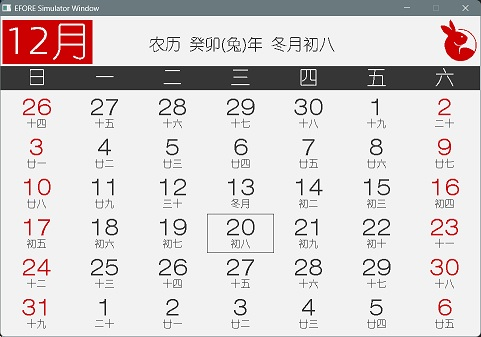
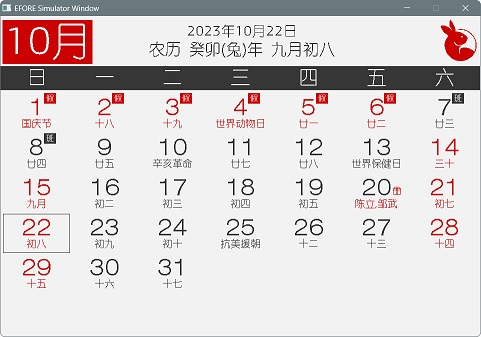
模拟器支持两个按键 A - 按键1（月份减 1）, D - 按键 2（月份加 1）

diff --git a/code/ex10d2/ui_calendar.py b/code/ex10d2/ui_calendar.py
@@ -3,7 +3,6 @@
     by .NFC 2023/12/20
 """
 import time
-import json
 import urequests as requests
 from  wifi_sta_helper import wifiHelper
 import logging as log
@@ -12,6 +11,7 @@ from display3c import *
 from efont import *
 from qw_icons import *
 import ulunar, holidays, birthdays
+from .button import *
 import gc
 
 gc.enable()
@@ -56,7 +56,7 @@ class uiCalendar(object):
         '''依据地支，获取生肖的图标'''
         return zodiac_icon_fill[lunar.dizhi]
     
-    def drawTitleBar(self, month, mday, lunar):
+    def drawTitleBar(self, year, month, mday, lunar):
         '''显示页面的标题栏'''
         # 显示 月份
         self.epd.setColor(EPD_RED, EPD_WHITE)
@@ -64,15 +64,19 @@ class uiCalendar(object):
         self.epd.setColor(EPD_WHITE, EPD_RED)
         s = "%2d月" % (month)
         self.epd.drawText(4, 10, 180, 88, ALIGN_CENTER, s, 80)
-        
-        # 阴历年份/生肖 日子
         self.epd.setColor(EPD_BLACK, EPD_WHITE)
+        
+        # 阳历年份
+        s = "%s年%s月%s日" % (year, month, mday)
+        self.epd.drawText(4, 16, self.epd.WIDTH - 1, 32, ALIGN_CENTER, s, 28)
+        
+        # 阴历年份/生肖/日子
         ganzhi = lunar.getGanZhi()
         shengxiao = lunar.getZodiac()
         ymon = lunar.getMonth()
         yday = lunar.getDate()
         s = "农历 %s(%s)年 %s%s" % (ganzhi, shengxiao, ymon, yday)
-        self.epd.drawText(4, 40, self.epd.WIDTH - 1, 48, ALIGN_CENTER, s, 32)
+        self.epd.drawText(4, 50, self.epd.WIDTH - 1, 48, ALIGN_CENTER, s, 32)
         
         # 显示生肖图标
         self.epd.selectFont("icons")
@@ -187,11 +191,43 @@ class uiCalendar(object):
         wifiHelper.connect("DOTNF-HOS", "20180903")
 
         year, month, mday, hour, minute, second, weekday, yearday, *_ = time.localtime()
-        # year, month, mday = 2023, 10, 22
+        # year, month, mday = 2024, 10, 22
         lunar = ulunar.Lunar(year, month, mday)
         
-        self.drawTitleBar(month, mday, lunar)
-        self.drawBody(year, month, mday, lunar)
+        reDraw = True
+        while self.epd.runable():
+            if reDraw:
+                self.epd.clear()
+                self.drawTitleBar(year, month, mday, lunar)
+                self.drawBody(year, month, mday, lunar)
+                self.epd.refresh()
+                reDraw = False
+            
+            if KeyA.is_pressed():
+                month = month - 1
+                if month <= 0:
+                    year = year - 1
+                    month = 12
+                if year <= 2020:
+                    year = 2020
+                    continue
+                
+                lunar = ulunar.Lunar(year, month, mday)
+                reDraw = True
+            elif KeyB.is_pressed():
+                month = month + 1
+                if month >= 13:
+                    year = year + 1
+                    month = 1
+                if year >= 2025:
+                    year = 2025
+                    continue
+                
+                lunar = ulunar.Lunar(year, month, mday)
+                reDraw = True
+            
+            if KeyA.is_holding() or KeyB.is_holding():
+                break
+            time.sleep_ms(100)
 
-        self.epd.refresh()
         self.epd.deepSleep(15000)

diff --git a/code/lib/usdl2.py b/code/lib/usdl2.py
@@ -130,11 +130,13 @@ EVT_BUF = {
     "EVT_DATA": (0x01 | uctypes.ARRAY, 56 | uctypes.UINT8)
 }
 
+sdl_exit_flag = False
 def SDL_Poll():
+    global sdl_exit_flag
     buf = bytearray(1 + 56)
     result = SDL_PollEvent(buf)
     if result == 0:
-        return False
+        return sdl_exit_flag
     
     header = uctypes.struct(uctypes.addressof(buf), EVT_BUF, uctypes.LITTLE_ENDIAN)
     
@@ -143,6 +145,31 @@ def SDL_Poll():
     # print(header.EVT_TYPE) 
     
     if header.EVT_TYPE == SDL_QUIT:
-        return True
+        sdl_exit_flag = True
+        return sdl_exit_flag
 
-    return False
+    return sdl_exit_flag
+
+def SDL_KeyRead(key):
+    '''Get Key State: 1 - pressed, 0 - released'''
+    
+    if SDL_Poll():
+        return 0
+    
+    if key == SDL_SCANCODE_A or key == SDL_SCANCODE_S or \
+       key == SDL_SCANCODE_D or key == SDL_SCANCODE_F:
+        p_scancodes = SDL_GetKeyboardState(0)
+        result_buffer = uctypes.bytearray_at(p_scancodes, SDL_NUM_SCANCODES)
+        if result_buffer[key]:
+            # key pressed, wait for released
+            while True:
+                
+                if SDL_Poll():
+                    return 0
+
+                p_scancodes = SDL_GetKeyboardState(0)
+                result_buffer = uctypes.bytearray_at(p_scancodes, SDL_NUM_SCANCODES)
+                if result_buffer[key] == 0:
+                    # released
+                    return 1
+    return 0

diff --git a/code/lib/usdl2_pin.py b/code/lib/usdl2_pin.py
@@ -1,0 +1,45 @@
+'''
+   Pin module for SDL2 simulator
+   by .NFC
+'''
+
+from usdl2 import SDL_KeyRead
+
+SDL_SCANCODE_A = const(4)   # KeyA
+SDL_SCANCODE_D = const(7)   # KeyB
+SDL_SCANCODE_F = const(9)
+SDL_SCANCODE_S = const(22)
+
+class Pin(object):
+    IN = 1
+    OUT = 2
+    OPEN_DRAIN = 4
+    PULL_DOWN = 1
+    PULL_UP = 2
+    
+    IRQ_RISING = 1
+    IRQ_FALLING = 2
+    WAKE_LOW = 4
+    WAKE_HIGH = 5    
+    
+    DRIVE_0 = 0
+    DRIVE_1 = 1
+    DRIVE_2 = 2
+    DRIVE_3 = 3
+    def __init__(self, id, mode=-1, pull=-1, *, value=None, drive=0, alt=-1):
+        self.id = id
+        pass
+        
+    def on(self) -> None:
+        """Set pin to "1" output level."""
+        pass
+    
+    def off(self) -> None:
+        """Set pin to "0" output level."""
+        pass
+    
+    def value(self, x = None) -> int:
+        if SDL_KeyRead(self.id):
+            return 0
+        else:
+            return 1

diff --git a/code/lib/birthdays.py b/code/lib/birthdays.py
@@ -1,0 +1,36 @@
+'''
+  家人生日提醒
+'''
+
+import datetime
+import ulunar
+
+familyBirthdays = {
+'9': [(6, '陈立,邹武'), (27, '李四')],
+'3': [(24, '王麻子')],
+'4': [(21, '张三')],
+'11': [(5, '汤正')],
+}
+
+def binary_search(sorted_data, search_number):
+    left, right = 0, len(sorted_data) - 1
+
+    while left <= right:
+        mid = (left + right) // 2
+        mid_number = sorted_data[mid][0]
+
+        if mid_number == search_number:
+            return sorted_data[mid]
+        elif mid_number < search_number:
+            left = mid + 1
+        else:
+            right = mid - 1
+
+    return None
+
+def get_familyBirthday(lunar:ulunar.Lunar) -> str :
+    if f'{lunar.lunarMonth}' in familyBirthdays:
+        person = binary_search(familyBirthdays[f'{lunar.lunarMonth}'], lunar.lunarDate)
+        if person is not None:
+            return person[1]
+    return ''

diff --git a/code/ex10d2/button.py b/code/ex10d2/button.py
@@ -1,0 +1,26 @@
+"""
+    User Button Input [.NFC 2023/12/18]
+"""
+import board, sys
+
+try:
+    from machine import Pin
+except ImportError:
+    from usdl2_pin import *
+
+class Button(object):
+    def __init__(self, pin):
+        self.pin = pin
+        
+    def is_pressed(self) -> bool:
+        return self.pin.value() == 0
+    
+    def is_holding(self) -> bool:
+        return False
+
+if sys.platform == 'linux':
+    KeyA = Button(Pin(SDL_SCANCODE_A))
+    KeyB = Button(Pin(SDL_SCANCODE_D))
+else:
+    KeyA = Button(board.KEY_USER)
+    KeyB = Button(board.KEY_IO0)

diff --git a/code/lib/display3c.py b/code/lib/display3c.py
@@ -65,6 +65,15 @@ class EpdImage(EPD):
         else:
             machine.deepsleep(microseconds)
 
+    def runable(self):
+        if sys.platform == "linux":
+            runn = self.eventProcess()
+            if runn:
+                print(f"running {runn}")
+            return not runn
+        else:
+            return True
+    
     def setColor(self, foreColor, backColor):
         '''Set image/font drawing color, and select internal working Frame Buffer.
         

diff --git a/code/lib/display.py b/code/lib/display.py
@@ -55,7 +55,13 @@ class EpdImage(EPD):
                 time.sleep(0.01)
         else:
             machine.deepsleep(microseconds)
-            
+        
+    def runable(self):
+        if sys.platform == "linux":
+            return not self.eventProcess()
+        else:
+            return True
+    
     def setColor(self, foreColor, backColor):
         '''Set image/font drawing color, and select internal working Frame Buffer.
         

diff --git a/code/panel/epd_sdl.py b/code/panel/epd_sdl.py
@@ -174,6 +174,7 @@ class EpdSDLBase():
                     self._pixel[self._w * (py + y_) + (px + x_)] = color
                     x_ += 1
                     
-    def eventProcess(self):
+    def eventProcess(self) -> bool:        
         return SDL_Poll()
+
     

diff --git a/code/lib/board.py b/code/lib/board.py
@@ -6,7 +6,10 @@
 # by dotnfc, 2023/09/22
 #
 from micropython import const
-from machine import Pin
+try:
+    from machine import Pin
+except ImportError:
+    from usdl2_pin import Pin
 
 # led
 LED_BLUE     = Pin(4)

diff --git a/README.md b/README.md
@@ -63,8 +63,14 @@ days 变量中，注意分隔符是制表符 '\t'。
 > tools/qweather-icons/qweather-icons-demo.html
 
 ## 页面展示
-
 <img src="image/ex10d2.jpg" />
+
+注意：
+
+    """
+    按键 A - 模拟 用户按键，可做左翻（月份 -1）
+    按键 D - 模拟 IO0，可做右翻（月份 +1）
+    """
 
 ## 参考
 
